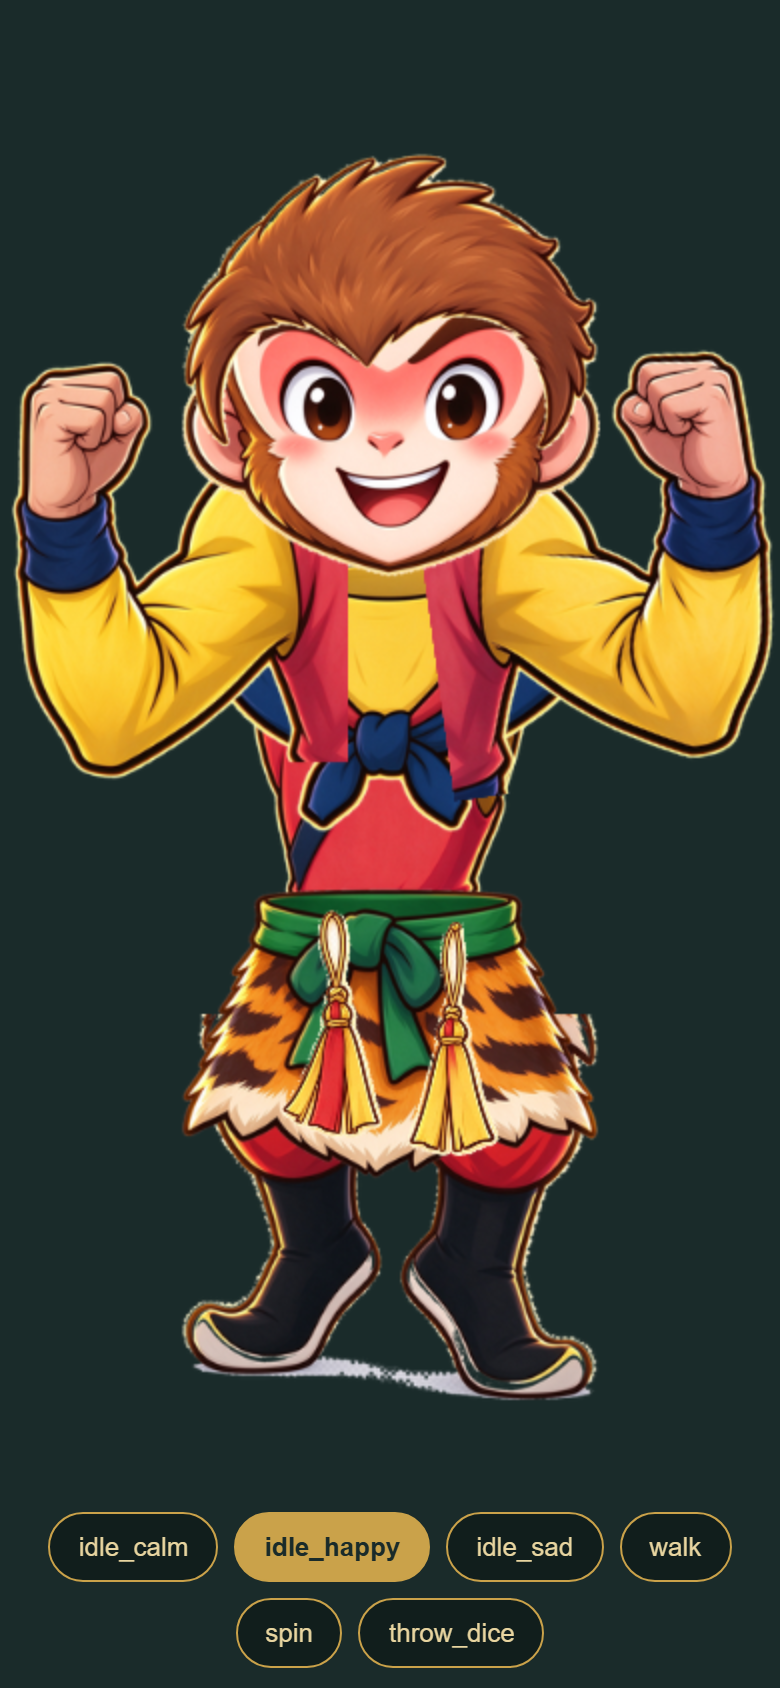
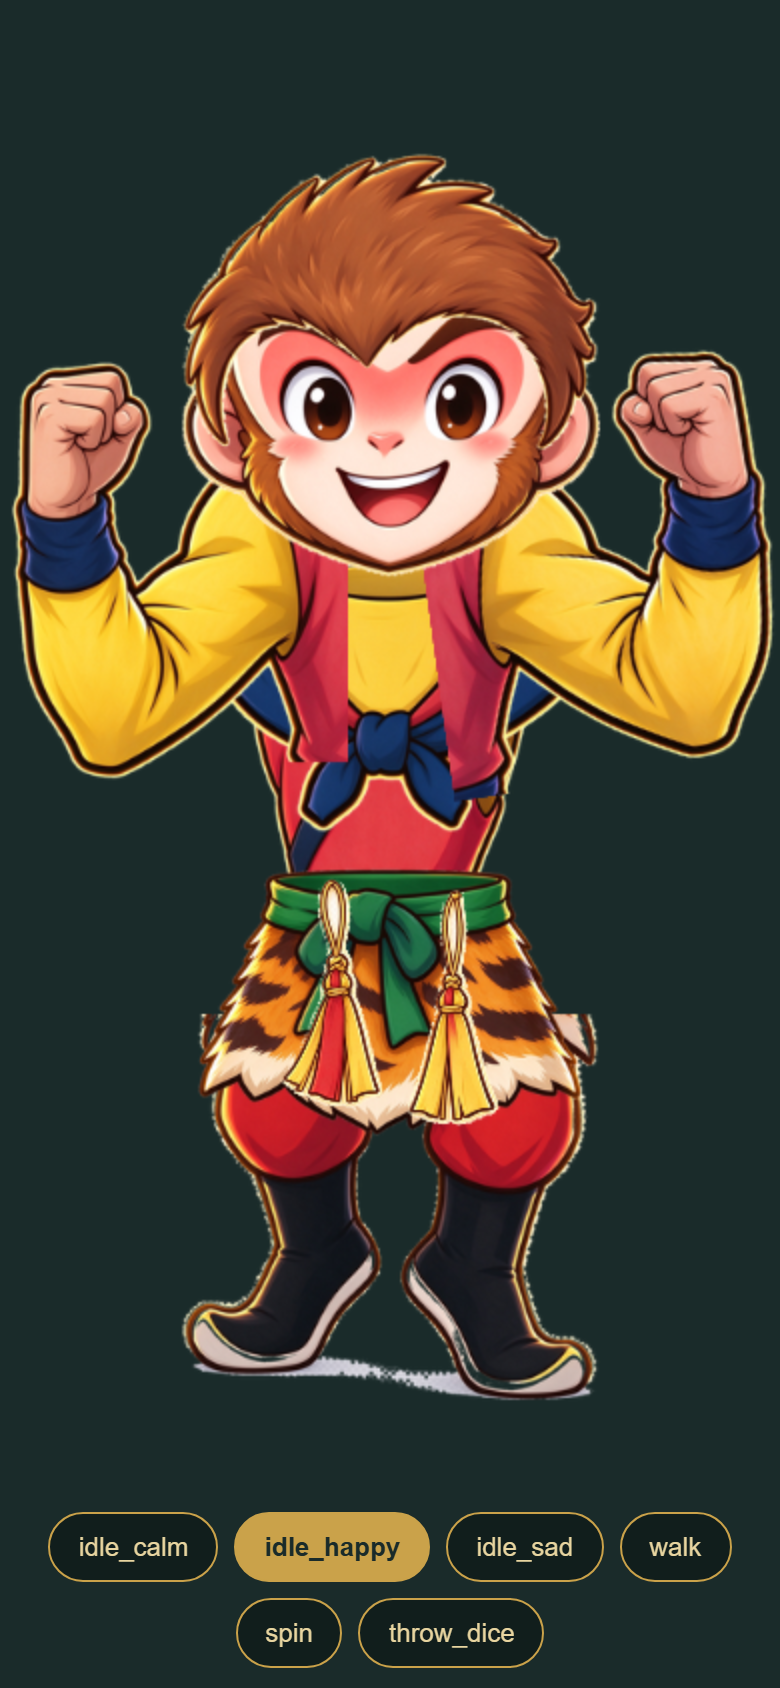
fix(mono-spine): 虎皮裙腰带对齐（摆动帧切图不再脱离）+ 裙身贴腰 0.92 + 上移盖住后腰

Changed region(s): [[0.2154, 0.4929, 0.7692, 0.7085]]

diff --git a/monopoly/tools/spine-build/align_skirt.py b/monopoly/tools/spine-build/align_skirt.py
@@ -1,0 +1,50 @@
+# -*- coding: utf-8 -*-
+"""虎皮裙摆动帧腰带对齐：skirt_l / skirt_r 以 skirt 主图为基准，
+检测各自绿腰带 bbox，平移画面使腰带中心 x、顶 y 与主图一致——
+walk 切帧时腰带纹丝不动，只有裙摆飘动（消除身体与裙脱离感）。
+"""
+import numpy as np
+from PIL import Image
+from pathlib import Path
+
+PARTS = Path(__file__).parent / "parts"
+BASE = "skirt"      # 主图（语义名）
+ALIGNEES = ["skirt_l", "skirt_r"]
+
+
+def green_bbox(img):
+    arr = np.asarray(img.convert("RGB"), dtype=np.int16)
+    r, g, b = arr[:, :, 0], arr[:, :, 1], arr[:, :, 2]
+    mask = (g > r * 1.15) & (g > b * 1.25) & (g > 60)
+    ys, xs = np.where(mask)
+    if len(xs) < 50:
+        return None
+    return xs.mean(), ys.min(), xs.min(), xs.max(), ys.max()
+
+
+def shift_to_match(base_bbox, img, bbox):
+    cx0, ty0 = base_bbox[0], base_bbox[1]
+    cx1, ty1 = bbox[0], bbox[1]
+    dx, dy = round(cx0 - cx1), round(ty0 - ty1)
+    if dx == 0 and dy == 0:
+        return img
+    w, h = img.size
+    canvas = Image.new("RGBA", (w, h), (0, 0, 0, 0))
+    canvas.paste(img, (dx, dy), img)
+    return canvas
+
+
+for sem in ALIGNEES:
+    p = PARTS / f"孙悟空绿色虎皮裙{'左摆' if sem == 'skirt_l' else '右摆'}.png"
+    img = Image.open(p)
+    bb = green_bbox(img)
+    if bb is None:
+        print(f"{p.name}: 未检测到绿腰带，跳过")
+        continue
+    base_img = Image.open(PARTS / "孙悟空绿色腰带虎皮裙.png")
+    bb0 = green_bbox(base_img)
+    if bb0 is None:
+        raise SystemExit("主图未检测到绿腰带")
+    out = shift_to_match(bb0, img, bb)
+    out.save(p)
+    print(f"{p.name}: 腰带中心 x {bb[0]:.0f}->{bb0[0]:.0f}, 顶 y {bb[1]}->{bb0[1]} (shift {round(bb0[0]-bb[0])},{round(bb0[1]-bb[1])})")

diff --git a/monopoly/tools/spine-build/build_wukong.py b/monopoly/tools/spine-build/build_wukong.py
@@ -87,7 +87,8 @@ PICK = {
 # 特写件（手部/拳头特写构图，同 SCALE 会偏大）
 SIZE_SCALE = {"hand_close": 0.5, "fist_close": 0.5, "staff_close": 0.6,
               "dice": 0.42, "spark": 0.7, "headband_anim": 0.9, "tassel": 0.6,
-              "arm_l_grip": 0.55}
+              "arm_l_grip": 0.55,
+              "skirt": 0.92, "skirt_l": 0.92, "skirt_r": 0.92}  # 裙身紧贴腰身（用户校准）
 
 SEM_OF = {v: k for k, v in PICK.items()}   # 语义名 → 文件 stem
 
@@ -167,7 +168,7 @@ def build_skeleton():
     arm_y = round(torso_h * 0.28)
     arm_x = round(arm_w * 0.55)                                  # 臂骨外移：臂图心=骨心，防胸前交叉
     hand_y = round(arm_h * 0.62)                                 # 手随臂骨（槽内切换时臂图自带手，此骨备用）
-    skirt_y = round(leg_h * 0.12 + 80 + 10)                      # 裙上移 80+10（用户校准）：底缘露脚踝不埋地面
+    skirt_y = round(leg_h * 0.12 + 80 + 10 + 20)                 # 裙上移 110（用户校准）：绿腰带盖住躯干蓝腰带消后腰
 
     BONES = [
         ("root",     None,     0, 0, {}),
